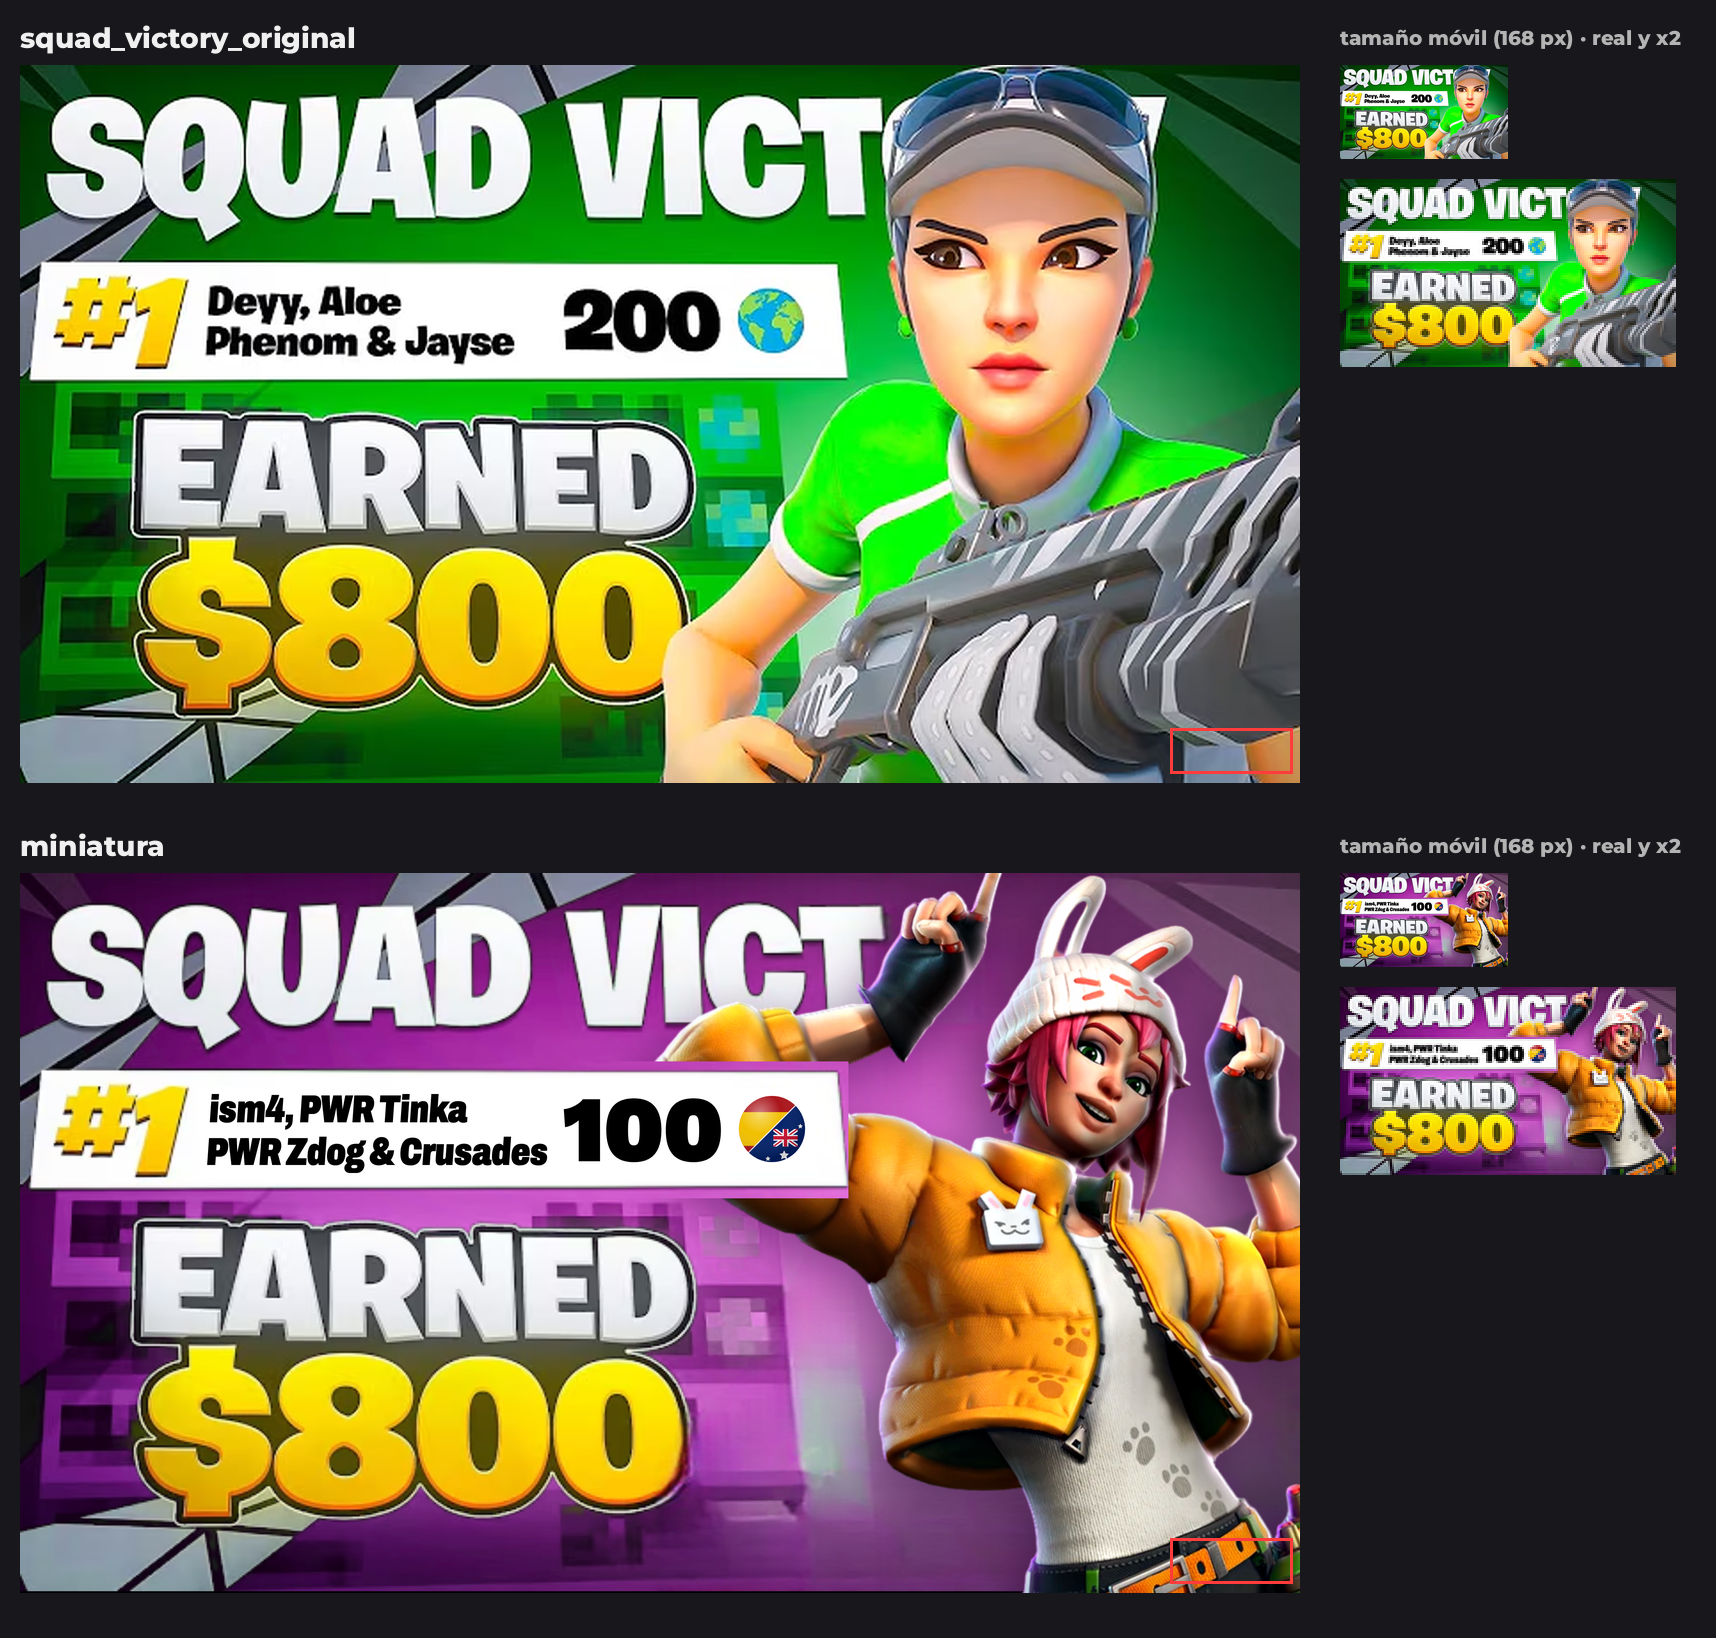
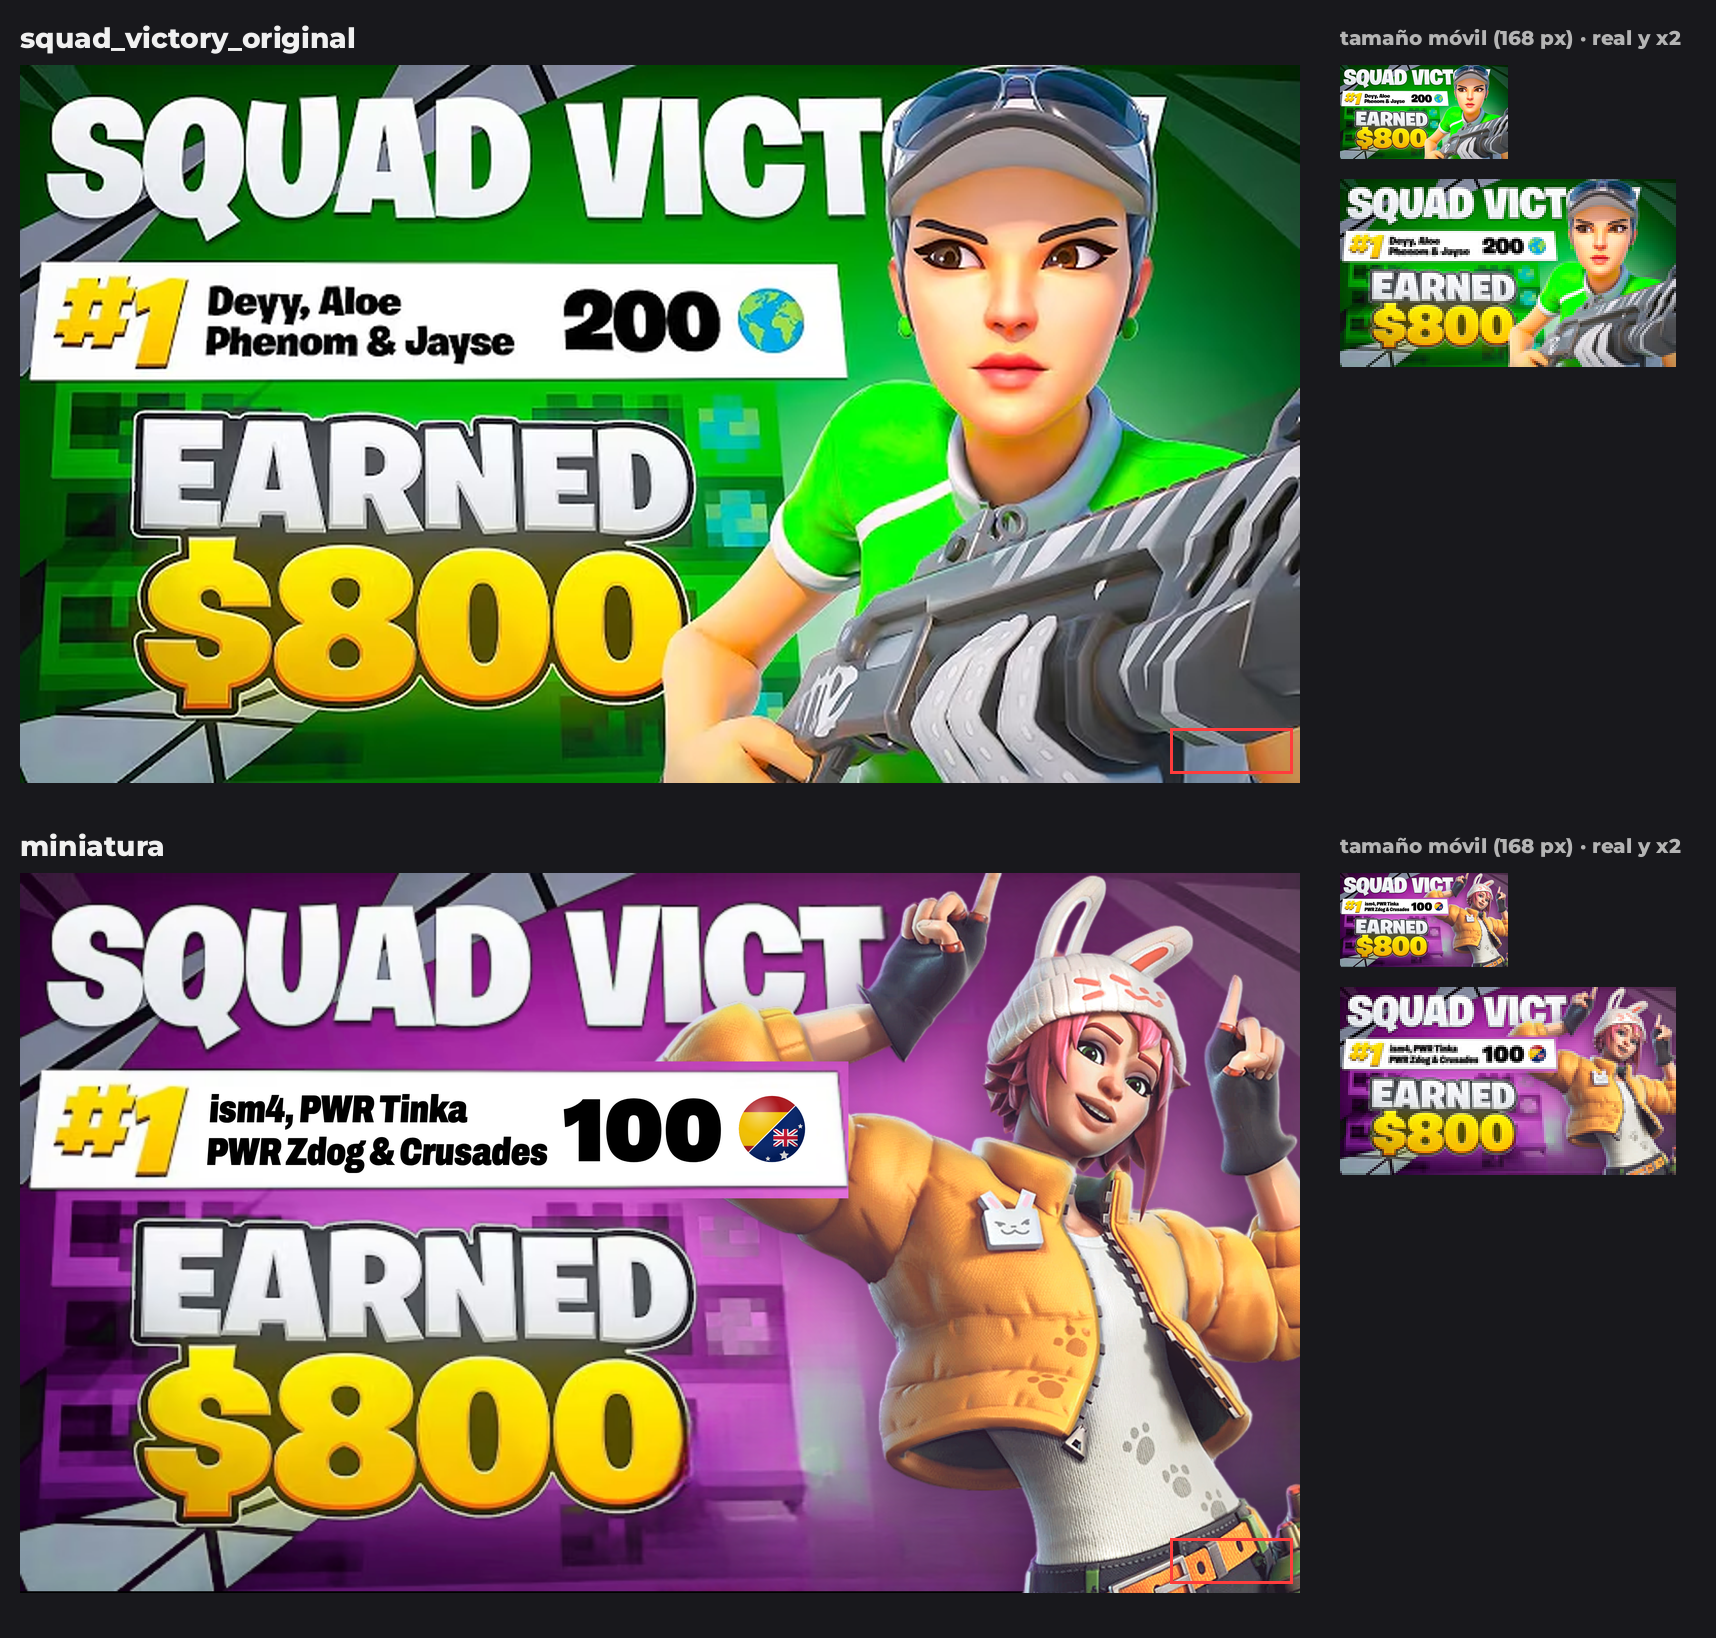
Squad Victory: luz de la skin nueva igualada al render de la skin verde
Claude-Session: https://claude.ai/code/session_01Q54DXVH7GopsR3mpjPBNRA

Changed region(s): [[0.3706, 0.5293, 0.7721, 0.9963], [0.8648, 0.5916, 0.9883, 0.7161], [0.8339, 0.5293, 0.8957, 0.5916]]

diff --git a/miniaturero/salida/2026-11-10_squad-victory/proyecto/luz_como_verde.py b/miniaturero/salida/2026-11-10_squad-victory/proyecto/luz_como_verde.py
@@ -1,0 +1,64 @@
+"""Iguala la iluminación de la skin nueva a la del render de la skin verde original:
+mismas luces/sombras (igualación de histograma de luminancia), saturación más suave,
+reflejo morado del fondo por la izquierda, brillo suave (bloom) y nitidez."""
+import sys
+import cv2
+import numpy as np
+from PIL import Image
+
+sys.path.insert(0, 'herramientas')
+import mini  # noqa: E402
+
+D = 'salida/2026-11-10_squad-victory/proyecto/img/'
+# referencia: la skin verde dentro de la miniatura
+base = np.array(Image.open(D + 'base_fondo_morado.png').convert('RGB'))
+pm = np.array(Image.open(D + '_personaje.png'))[..., 3]
+ref = base[0:pm.shape[0], 359:359 + pm.shape[1]]
+ref_L = cv2.cvtColor(ref, cv2.COLOR_RGB2LAB)[..., 0][pm > 200].astype(np.float32)
+
+im = np.array(Image.open(D + 'skin_nueva.png').convert('RGBA'))
+a = im[..., 3].astype(np.float32) / 255
+m = a > 0.8
+
+# 1) un poco de modelado 3D suave (foco frontal-izquierdo amplio, sin contraluces fuertes)
+r = mini.iluminar_3d(im, rim_der="#ffffff", rim_izq="#c86cff", fuerza_rim=0.45, clave=0.35, fundido=0.0,
+                     key=(-0.35, -0.45, 0.82))
+rgb = r[..., :3]
+
+# 2) igualar luces y sombras a la skin verde (histograma de L)
+lab = cv2.cvtColor(rgb, cv2.COLOR_RGB2LAB).astype(np.float32)
+L = lab[..., 0]
+qs = np.linspace(0, 100, 101)
+src_q = np.percentile(L[m], qs)
+dst_q = np.percentile(ref_L, qs)
+L2 = np.interp(L, src_q, dst_q)
+lab[..., 0] = L * 0.15 + L2 * 0.85
+
+# 3) saturación más suave, como el render (sin apagar el naranja del todo)
+lab[..., 1] = 128 + (lab[..., 1] - 128) * 0.8
+lab[..., 2] = 128 + (lab[..., 2] - 128) * 0.8
+rgb = cv2.cvtColor(lab.clip(0, 255).astype(np.uint8), cv2.COLOR_LAB2RGB).astype(np.float32) / 255
+
+# 4) reflejo morado del fondo en las sombras, más por la izquierda
+h, w = a.shape
+izq = np.clip(1 - np.linspace(0, 1, w), 0, 1)[None, :] ** 1.5
+sombra = np.clip(1 - rgb.mean(2) * 1.6, 0, 1)
+morado = np.array([0.62, 0.30, 0.70])
+k = (0.10 + 0.18 * izq) * sombra
+rgb = rgb * (1 - k[..., None]) + morado * k[..., None]
+
+# 5) brillo suave (bloom) en las luces
+luces = np.clip((rgb - 0.72) / 0.28, 0, 1)
+bloom = cv2.GaussianBlur(luces, (0, 0), max(h, w) * 0.012)
+rgb = 1 - (1 - rgb) * (1 - bloom * 0.22)
+
+# 6) nitidez (como el render, más definido)
+rgb = rgb + (rgb - cv2.GaussianBlur(rgb, (0, 0), 1.2)) * 0.6
+out = (rgb.clip(0, 1) * 255).astype(np.uint8)
+Image.fromarray(np.dstack([out, im[..., 3]])).save(D + 'skin_nueva_iluminada.png')
+
+# comprobación
+labo = cv2.cvtColor(out, cv2.COLOR_RGB2LAB).astype(np.float32)[..., 0][m] * 100 / 255
+sat = cv2.cvtColor(out, cv2.COLOR_RGB2HSV)[..., 1][m].mean() / 255
+print(f'nueva: L media {labo.mean():.1f} p5 {np.percentile(labo, 5):.1f} p95 {np.percentile(labo, 95):.1f} '
+      f'satur {sat:.2f}   (verde: L media 61.2 p5 21.2 p95 90.6 satur 0.35)')

diff --git a/miniaturero/salida/2026-11-10_squad-victory/notas.md b/miniaturero/salida/2026-11-10_squad-victory/notas.md
@@ -14,6 +14,7 @@
 - **Fuente (versión 3, actual):** comparando de cerca con el original se vio que sus nombres van **inclinados unos 4°** (medido en la "D" y la "P": 3,4–4,6°) y el número va recto. Nombres: **Archivo 900** (ancho 75 %) inclinada exactamente 4°, con el "&" clásico de Inter Black. Número: **Work Sans 900** recto. Posiciones medidas al píxel: líneas a 124 y 147 px y número en la misma caja que el "200" (306–393 × 126–161). Para que quepa "PWR Zdog & Crusades" sin deformar, los nombres van un 9 % más bajos que los originales.
 - **Fondo (10/11):** el verde del fondo pasa al morado/magenta de la clasificación del torneo (`entrada/clasificacion_squads.webp`): morado (111,33,112) a la izquierda, más oscuro abajo y magenta claro hacia la derecha. Script `proyecto/recolorear_fondo.py`: solo cambia verdes y turquesas fuera del personaje (máscara con BiRefNet), conserva luces, sombras y los cuadros pixelados. No se toca nada más: textos, personaje (camiseta y pendientes siguen verdes), "#1", "$800" y bandera iguales. Revisión: 1) quedaba un filo verde alrededor del personaje y los cuadros turquesa → máscara sin margen y rango de tonos ampliado; 2) OK.
 - **Cambio de skin (10/11):** no se genera un render nuevo (no hay modelo 3D y no se recrean personajes con derechos); se usa la imagen de la skin que aporta el usuario (`entrada/skin_nueva.webp`). Pasos (`proyecto/cambiar_skin.py`): máscara de la skin verde → relleno con LaMa → la tarjeta del #1 se separa en una capa (`capa_tarjeta.png`) para que vaya por delante, como en el original → skin nueva recortada con BiRefNet e iluminada en 3D (contraluz rosado por la derecha como la luz fuerte del render original, morado por la izquierda) → colocada a la derecha, sangrando por abajo y cubriendo el final de "VICTORY" igual que la gorra de la verde. La pose es la de la imagen aportada.
+- **Luz de la skin nueva (v2, 10/11):** al usuario no le gustó la primera (sombras demasiado negras, colores muy saturados, contornos pintados). Ahora `proyecto/luz_como_verde.py` iguala la luz a la del render de la skin verde (`entrada/referencia_luz_skin_verde.webp`): mismo reparto de luces/sombras (luz media 60 vs 61, sombras 21 vs 21, brillos 92 vs 91), saturación algo más suave (0,39 vs 0,35), reflejo morado del fondo por la izquierda, brillo suave y nitidez. En el HTML, sombra proyectada morada suave.
 - **Resolución:** el original es 720×404; se exporta a 3840×2160 pero la imagen de fondo sigue siendo la misma (algo blanda). Si tienes el archivo original a más resolución, queda más nítida.
 
 ## Archivos
